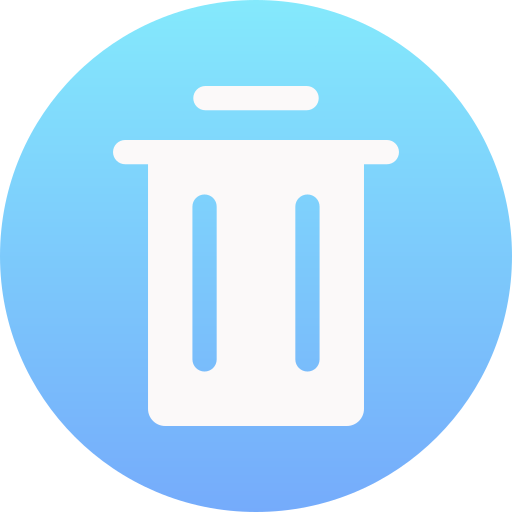
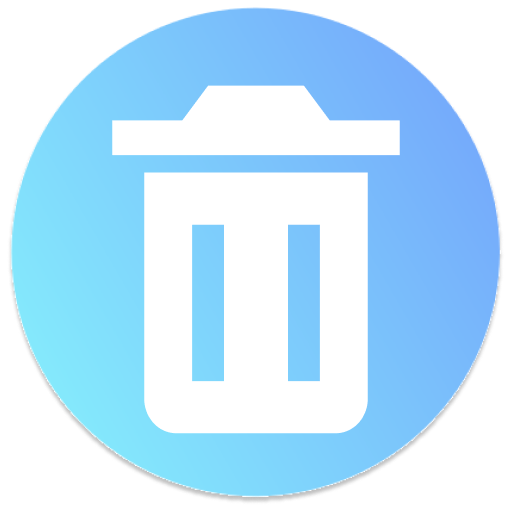
login with seed and new delete wallet image change

diff --git a/lib/app/Pages/LoginWithSeed/widgets/LoginWithSeedCard.dart b/lib/app/Pages/LoginWithSeed/widgets/LoginWithSeedCard.dart
@@ -1,9 +1,11 @@
 import 'package:flutter/material.dart';
 import 'package:flutter/services.dart';
+import 'package:my_pendrive_wallet_desktop/app/Custom/lib/src/easy_loading.dart';
 import 'package:my_pendrive_wallet_desktop/app/constants.dart';
 import 'package:my_pendrive_wallet_desktop/app/global/widgets/input.dart';
 import 'package:my_pendrive_wallet_desktop/helpers/encryption.dart';
 import 'package:shared_preferences/shared_preferences.dart';
+import 'package:bip39/bip39.dart' as bip39;
 
 class LoginWithSeedCard extends StatefulWidget {
   const LoginWithSeedCard({
@@ -82,25 +84,30 @@ class _LoginWithSeedCardState extends State<LoginWithSeedCard> {
       twelfthMnemonicController.text.replaceAll(" ", ""),
     ];
     var mnemonic = mnemonicArray.join(" ");
-    var prefs = await SharedPreferences.getInstance();
-    var walletNames = prefs.getStringList("walletNames");
-    if (walletNames == null) {
-      prefs.setStringList("walletNames", [walletNameController.text]);
-    } else {
-      prefs.setStringList(
-          "walletNames", [...walletNames, walletNameController.text]);
-    }
+    var valid = bip39.validateMnemonic(mnemonic);
+    if (valid) {
+      var prefs = await SharedPreferences.getInstance();
+      var walletNames = prefs.getStringList("walletNames");
+      if (walletNames == null) {
+        prefs.setStringList("walletNames", [walletNameController.text]);
+      } else {
+        prefs.setStringList(
+            "walletNames", [...walletNames, walletNameController.text]);
+      }
 
-    prefs.setString(
-        "Seed " + walletNameController.text,
-        Encryption.encryptFromPassword(
-            walletPasswordController.text, mnemonic));
-    prefs.setString("currentWallet", walletNameController.text);
-    // TODO change to original network
-    //TODO pass wallet data as params
-    // var wallet = btc.HDWallet.fromSeed(bip39.mnemonicToSeed(mnemonic),
-    //     network: btc.testnet);
-    Navigator.popAndPushNamed(context, "/loginWithPassword");
+      prefs.setString(
+          "Seed " + walletNameController.text,
+          Encryption.encryptFromPassword(
+              walletPasswordController.text, mnemonic));
+      prefs.setString("currentWallet", walletNameController.text);
+      // TODO change to original network
+      //TODO pass wallet data as params
+      // var wallet = btc.HDWallet.fromSeed(bip39.mnemonicToSeed(mnemonic),
+      //     network: btc.testnet);
+      Navigator.popAndPushNamed(context, "/loginWithPassword");
+    } else {
+      await EasyLoading.showError('Seed inválida');
+    }
   }
 
   @override

diff --git a/lib/app/Pages/LoginWithPassword/LoginWithPassword.dart b/lib/app/Pages/LoginWithPassword/LoginWithPassword.dart
@@ -19,6 +19,7 @@ class LoginWithPasswordPage extends StatefulWidget {
 class _LoginWithPasswordPageState extends State<LoginWithPasswordPage> {
   var wallets = [];
   String currentWalletName = "";
+  String currentTrashSRC = "assets/trash.png";
   bool isBeenDraged = false;
   bool trashHoved = false;
 
@@ -48,6 +49,9 @@ class _LoginWithPasswordPageState extends State<LoginWithPasswordPage> {
     prefs.remove("Seed " + details.data);
     getWallets();
     await EasyLoading.showSuccess('Carteira excluida com sucesso!');
+    setState(() {
+      currentTrashSRC = "assets/trash.png";
+    });
   }
 
   void checkCurrentWalletExistence() async {
@@ -143,11 +147,21 @@ class _LoginWithPasswordPageState extends State<LoginWithPasswordPage> {
               bottom: 30,
               left: width / 2,
               child: DragTarget<String>(
-                  onAcceptWithDetails: deleteWallet,
-                  builder: (BuildContext context, List<String> list,
-                          List<dynamic> dynamicist) =>
-                      const Image(
-                          image: AssetImage("assets/trash.png"), height: 70)),
+                onAcceptWithDetails: deleteWallet,
+                onMove: (data) {
+                  setState(() {
+                    currentTrashSRC = "assets/trashRed.png";
+                  });
+                },
+                onLeave: (data) {
+                  setState(() {
+                    currentTrashSRC = "assets/trash.png";
+                  });
+                },
+                builder: (BuildContext context, List<String> list,
+                        List<dynamic> dynamicist) =>
+                    Image(image: AssetImage(currentTrashSRC), height: 70),
+              ),
             ),
           const WatermarkLogo()
         ],
